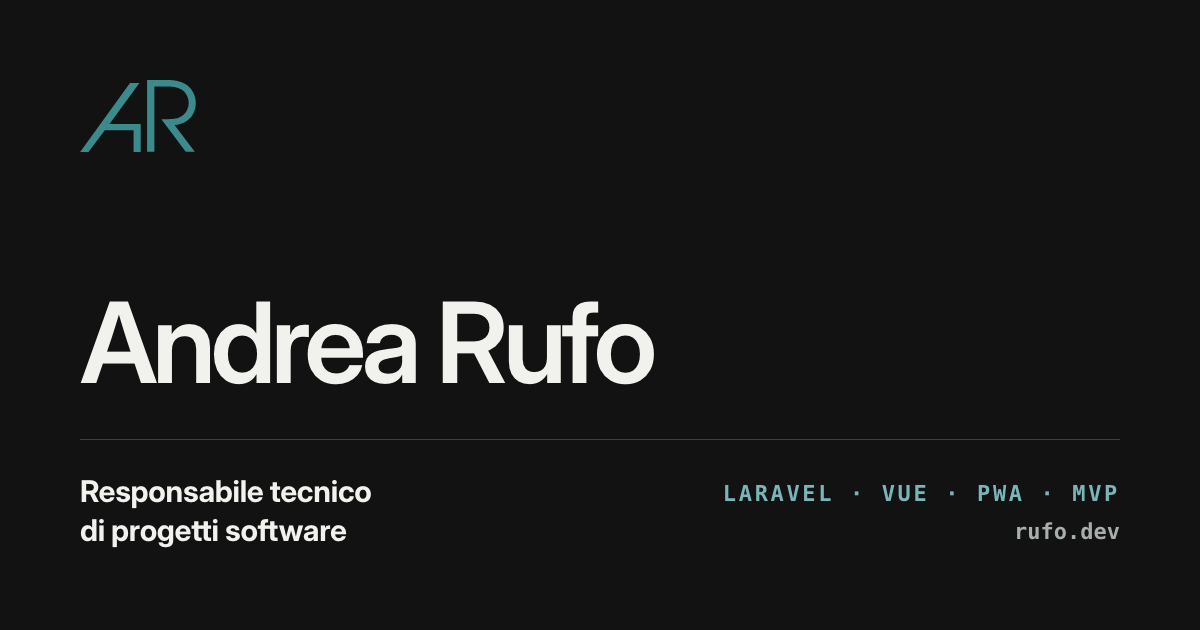
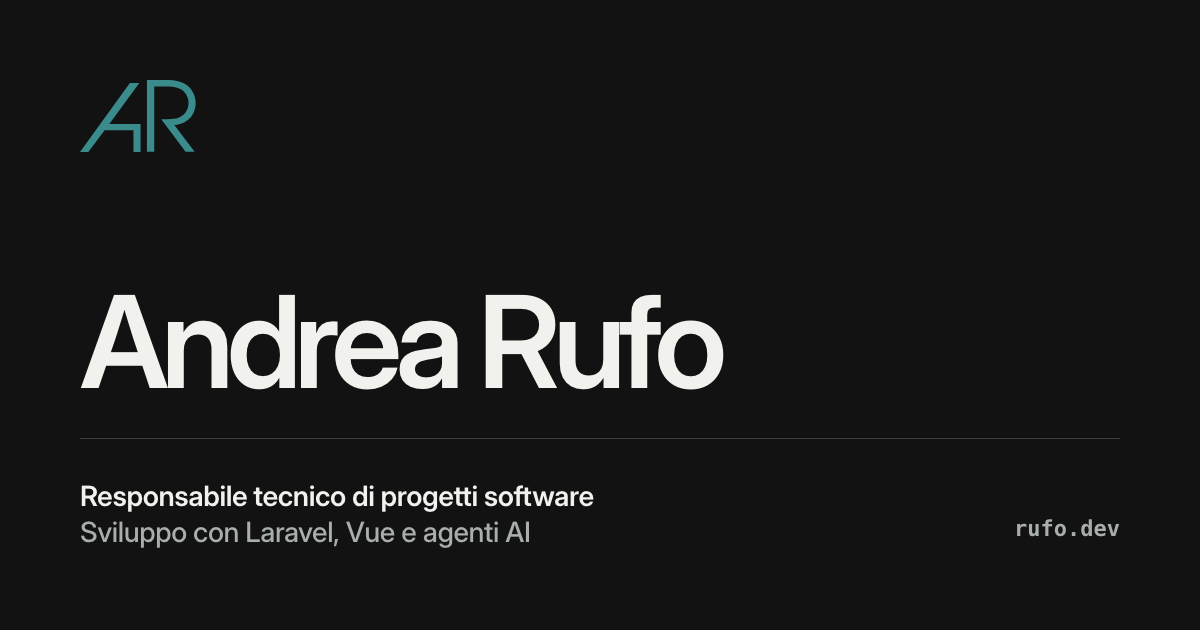
og:image: qualifica con sviluppo con Laravel, Vue e agenti AI

diff --git a/index.html b/index.html
@@ -15,14 +15,14 @@
   <meta property="og:title" content="Andrea Rufo — Progetti software con Laravel e Vue, dall'idea alla produzione">
   <meta property="og:description" content="Guida tecnica e sviluppo di progetti software con Laravel e Vue: MVP, PWA, sistemi legacy, dall'idea alla produzione.">
   <meta property="og:url" content="https://rufo.dev/">
-  <meta property="og:image" content="https://rufo.dev/og-image.png">
+  <meta property="og:image" content="https://rufo.dev/og-image.png?v=2">
   <meta property="og:image:width" content="1200">
   <meta property="og:image:height" content="630">
   <meta property="og:image:alt" content="Andrea Rufo — Responsabile tecnico di progetti software">
   <meta name="twitter:card" content="summary_large_image">
   <meta name="twitter:title" content="Andrea Rufo — Progetti software con Laravel e Vue, dall'idea alla produzione">
   <meta name="twitter:description" content="Guida tecnica e sviluppo di progetti software con Laravel e Vue.">
-  <meta name="twitter:image" content="https://rufo.dev/og-image.png">
+  <meta name="twitter:image" content="https://rufo.dev/og-image.png?v=2">
   <link rel="preload" href="fonts/inter-variable.woff2" as="font" type="font/woff2" crossorigin>
   <link rel="stylesheet" href="css/style.css?v=202611111058">
   <title>Andrea Rufo — Progetti software con Laravel e Vue, dall'idea alla produzione</title>
